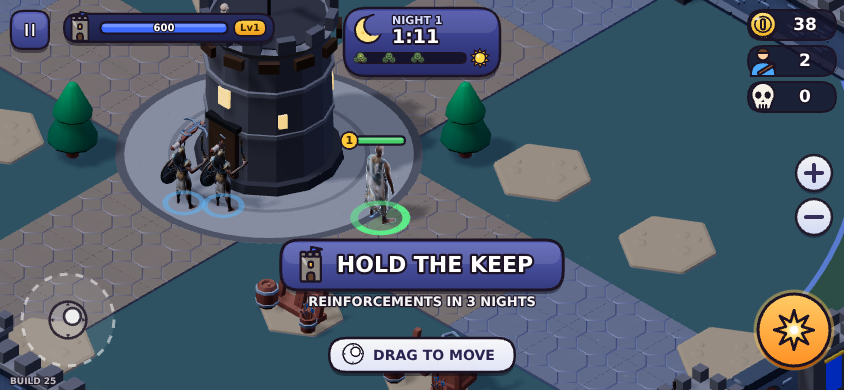
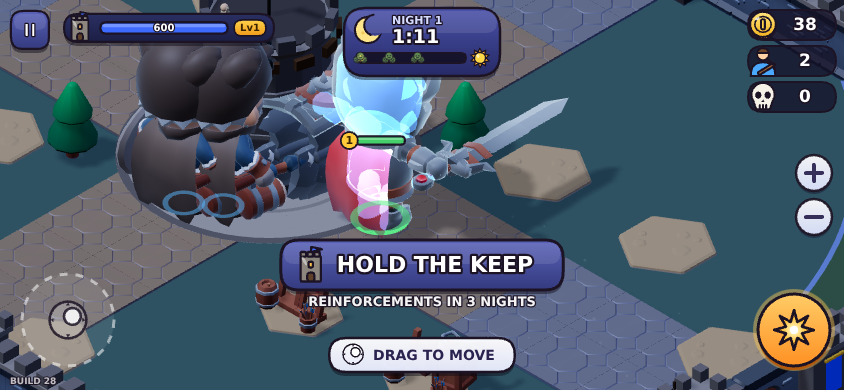
BUILD 28 fix user 3 poin: cast scale 0.75 (KAYKIT_CAST_SCALE), ikon zoom +/- dihapus (pinch/wheel/keys tetap), tint tulang horde lebih terang; gate envqa/plotsqa disesuaikan

Changed region(s): [[0.1232, 0.0923, 0.7085, 0.6154], [0.4005, 0.8615, 0.4313, 0.9538]]

diff --git a/src/ui/survival/controls.js b/src/ui/survival/controls.js
@@ -6,45 +6,10 @@ import { drawSurvivalIcon, drawLabel, drawPanel, INK } from '../survivalIcons.js
 import { TAU, clock, addHit, BUTTON_COLORS, zoomButtonLayout, recenterChipBox } from './shared.js';
 
 export function drawZoomButtons(game, ctx, w, h) {
-  const mode = game.survival;
-  if (!mode || mode.cine || typeof mode.zoomStep !== 'function') return;
-  const L = zoomButtonLayout(w, h);
-  const [lo, hi] = SURVIVAL_CAMERA.zoom;
-  const goal = mode.zoomGoal();
-  for (const row of [
-    { id: 'ZOOM IN', at: L.zoomIn, dir: 1, end: goal >= hi - 1e-3 },
-    { id: 'ZOOM OUT', at: L.zoomOut, dir: -1, end: goal <= lo + 1e-3 },
-  ]) {
-    const { x, y } = row.at;
-    const r = L.r;
-    addHit(game, { x: x - r - 4, y: y - r - 4, w: r * 2 + 8, h: r * 2 + 8 }, row.id, () => mode.zoomStep(row.dir));
-    ctx.save();
-    ctx.globalAlpha = row.end ? 0.45 : 0.94;
-    ctx.beginPath();
-    ctx.arc(x, y + 3, r, 0, TAU);
-    ctx.fillStyle = 'rgba(20,16,40,0.45)';
-    ctx.fill();
-    const g = ctx.createLinearGradient(0, y - r, 0, y + r);
-    g.addColorStop(0, '#ffffff');
-    g.addColorStop(1, '#dde4ff');
-    ctx.beginPath();
-    ctx.arc(x, y, r, 0, TAU);
-    ctx.fillStyle = g;
-    ctx.fill();
-    ctx.lineWidth = 2.5;
-    ctx.strokeStyle = INK;
-    ctx.stroke();
-    // the glyph: a fat plus / minus in ink
-    ctx.lineCap = 'round';
-    ctx.lineWidth = Math.max(3, r * 0.22);
-    ctx.strokeStyle = '#2a2350';
-    const k = r * 0.46;
-    ctx.beginPath();
-    ctx.moveTo(x - k, y); ctx.lineTo(x + k, y);
-    if (row.dir > 0) { ctx.moveTo(x, y - k); ctx.lineTo(x, y + k); }
-    ctx.stroke();
-    ctx.restore();
-  }
+  // BUILD 28 (user 2026-10-23: "hapus _+ zoom icon pada game"): the on-screen
+  // + / - discs are gone. Pinch anywhere, the mouse wheel and the + / - keys
+  // remain the zoom paths (input.js); nothing registers a hit here anymore.
+  return;
 }
 
 /**

diff --git a/src/game/render3d/world3d.js b/src/game/render3d/world3d.js
@@ -6,7 +6,7 @@
  */
 import * as THREE from '../../vendor/three/three.module.min.js';
 import { ISO_CAMERA, clamp, visualAngle } from '../../core/util.js';
-import { EnvKit, PIECE_METRES, PX_PER_METRE, SURVIVAL_ACTOR_SCALE, VALEN_METRES } from './envkit.js';
+import { EnvKit, PIECE_METRES, PX_PER_METRE, SURVIVAL_ACTOR_SCALE, VALEN_METRES, KAYKIT_CAST_SCALE } from './envkit.js';
 import { Valen3D } from './valen3d.js';
 import { Enemy3D, ENEMY_HEIGHT } from './enemy3d.js';
 import { Troop3D } from './troop3d.js';
@@ -2590,7 +2590,7 @@ class World3DRuntime {
   _dressSurvivalGuard(mesh) {
     const ud = mesh.userData;
     if (ud.troop || !Troop3D.ready) return ud.troop;
-    const troop = Troop3D.make('guard', GUARD_TROOP_HEIGHT * SURVIVAL_ACTOR_SCALE);
+    const troop = Troop3D.make('guard', GUARD_TROOP_HEIGHT * SURVIVAL_ACTOR_SCALE * KAYKIT_CAST_SCALE);
     if (!troop) return null;
     ud.troop = troop;
     mesh.add(troop.model);
@@ -2767,7 +2767,7 @@ class World3DRuntime {
   _makeReliefTroop(role) {
     const group = new THREE.Group();
     group.name = `survival-relief-troop-${role}`;
-    const troop = Troop3D.make(role === 'banner' ? 'bearer' : 'soldier', GUARD_TROOP_HEIGHT * SURVIVAL_ACTOR_SCALE);
+    const troop = Troop3D.make(role === 'banner' ? 'bearer' : 'soldier', GUARD_TROOP_HEIGHT * SURVIVAL_ACTOR_SCALE * KAYKIT_CAST_SCALE);
     if (!troop) return null;
     group.add(troop.model);
     let flag = null;

diff --git a/src/game/player.js b/src/game/player.js
@@ -13,7 +13,7 @@
 import { clamp, lerp, damp, TAU, angDiff, approachAngle, chance, visualAngle, screenDirToWorld } from '../core/util.js';
 import { PLAYER, TUNING } from '../core/config.js';
 import { Valen3D } from './render3d/valen3d.js';
-import { PX_PER_METRE, SURVIVAL_ACTOR_SCALE, VALEN_METRES } from './render3d/envkit.js';
+import { PX_PER_METRE, SURVIVAL_ACTOR_SCALE, VALEN_METRES, KAYKIT_CAST_SCALE } from './render3d/envkit.js';
 import { IAP } from '../shop/iap.js';
 import { drainPerSecond, laneStats } from './sim/economy.js';
 import { weaponById, swingDist, swingBearing, swingBearingToWorld } from './sim/weapons.js';
@@ -460,7 +460,7 @@ export class Player {
       weapon: this.weapon || 'claw',
       world: {
         x: this.x, y: this.y, full3D: true,
-        heightPx: VALEN_METRES * PX_PER_METRE * (game.mode === 'survival' ? SURVIVAL_ACTOR_SCALE : 1),
+        heightPx: VALEN_METRES * PX_PER_METRE * (game.mode === 'survival' ? SURVIVAL_ACTOR_SCALE : 1) * KAYKIT_CAST_SCALE,
         light: game.renderer.keyLightAt(this.x, this.y),
       },
     });

diff --git a/src/game/render3d/crowd3d.js b/src/game/render3d/crowd3d.js
@@ -33,9 +33,9 @@ import { Enemy3D, ENEMY_MODELS, cloneRig, HORDE_EYE, hordeGradeMaterial, hordeGl
 
 /** Which rigs the horde is made of, and how much of it each one is (%). */
 export const CROWD_KINDS = Object.freeze([
-  Object.freeze({ key: 'shambler', share: 58, height: 76, hover: 0 }),
-  Object.freeze({ key: 'lurcher', share: 26, height: 62, hover: 0 }),
-  Object.freeze({ key: 'wretch', share: 16, height: 72, hover: 0 }),
+  Object.freeze({ key: 'shambler', share: 58, height: 57, hover: 0 }), // BUILD 28: 76 * KAYKIT_CAST_SCALE
+  Object.freeze({ key: 'lurcher', share: 26, height: 47, hover: 0 }), // BUILD 28: 62 * KAYKIT_CAST_SCALE
+  Object.freeze({ key: 'wretch', share: 16, height: 54, hover: 0 }), // BUILD 28: 72 * KAYKIT_CAST_SCALE
 ]);
 /** Clips baked per kind (names resolve through ENEMY_MODELS[key].map). */
 const BAKE = Object.freeze([

diff --git a/src/game/render3d/envkit.js b/src/game/render3d/envkit.js
@@ -72,6 +72,13 @@ export const PX_PER_METRE = pxPerMetre(ISO_CAMERA.tilt);
  */
 export { SURVIVAL_ACTOR_SCALE } from '../../core/config.js';
 
+/** BUILD 28 (user 2026-10-23: "size sangat besar untuk character dan pasukan
+ *  nya"): the KayKit family is chibi-proportioned — same standing height as
+ *  the retired slim packs reads roughly a third bulkier in the bailey. Every
+ *  cast height (captain, garrison, horde) is multiplied by this so the visual
+ *  mass, not the metre stick, matches what BUILD 27 tuned. */
+export const KAYKIT_CAST_SCALE = 0.75;
+
 /**
  * WHAT EVERYTHING IS, IN METRES.
  *

diff --git a/src/game/render3d/kaykit3d.js b/src/game/render3d/kaykit3d.js
@@ -84,9 +84,9 @@ const BOW_BONE = Object.freeze({
  *  peasant bone for the ghoul line, ash for the runner, cold bog for the
  *  caster. The authored 'Glow' eye material stays untouched (night read). */
 const HORDE_BONE_TINT = Object.freeze({
-  shambler: 0xd9e6c3,
-  lurcher: 0xd9d6c9,
-  wretch: 0xcfe0da,
+  shambler: 0xe9f2d6,
+  lurcher: 0xe8e4d8,
+  wretch: 0xe0ece6,
 });
 
 let _loader = null;
